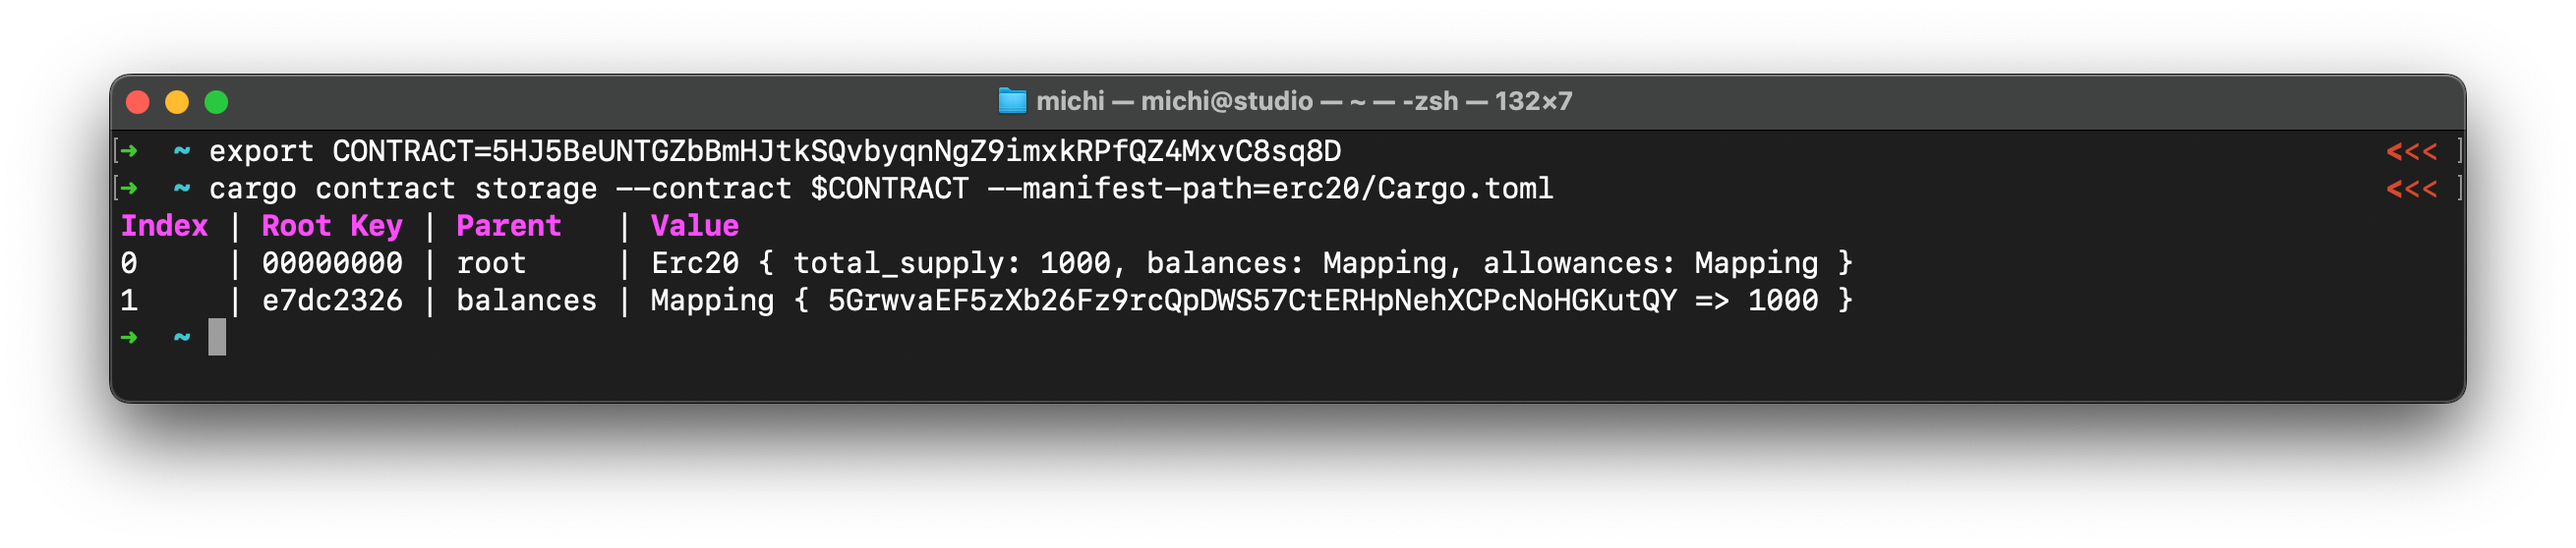
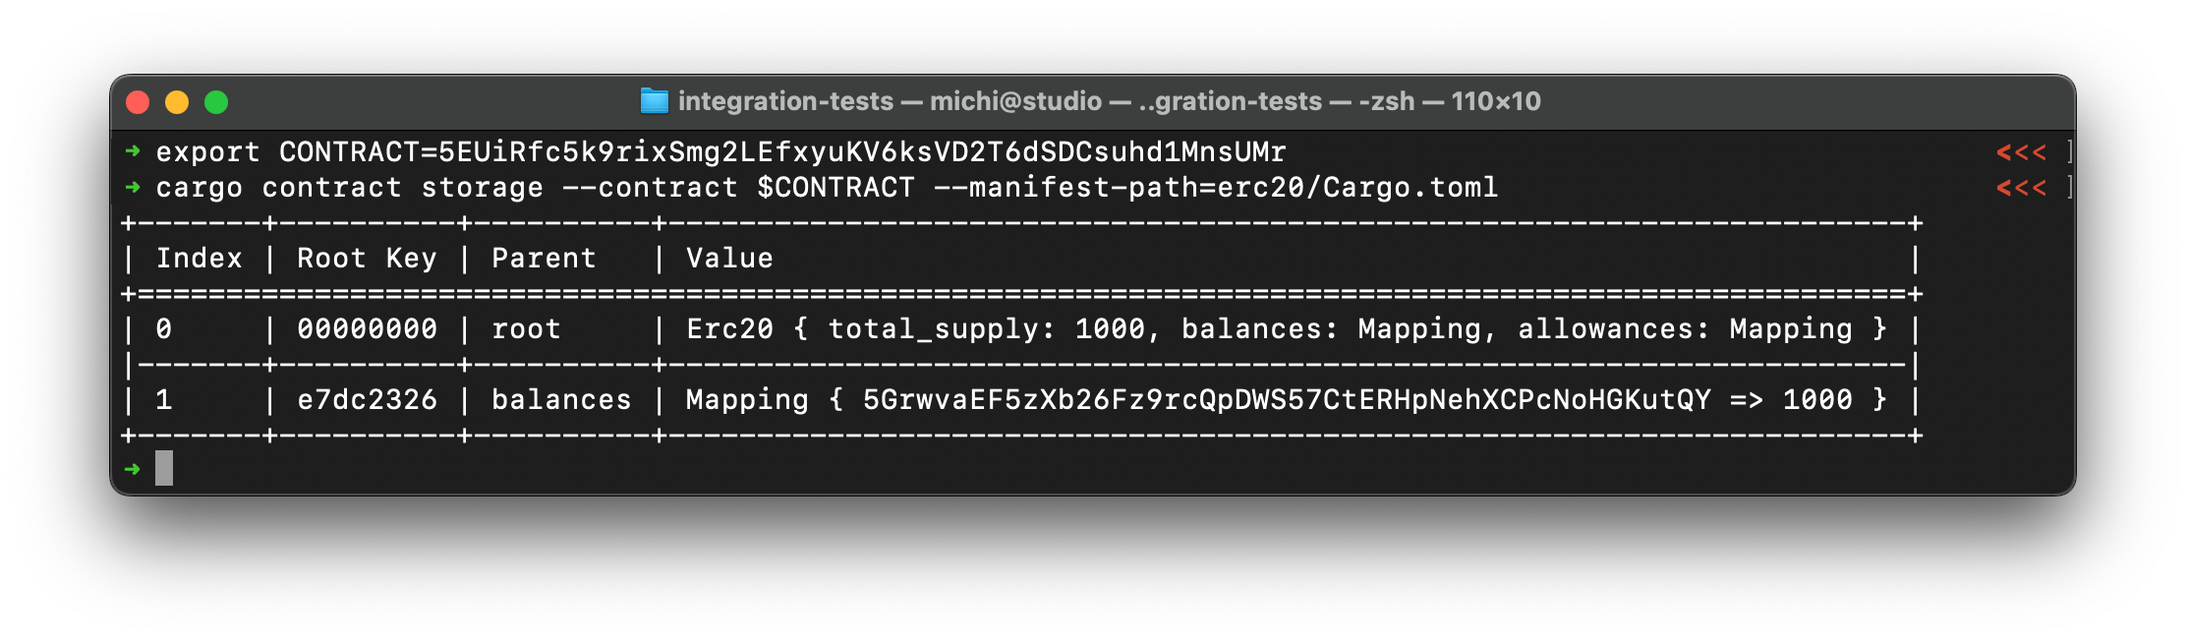
Update `cargo contract storage` tabular layout

Changed region(s): [[0.031, 0.0914, 0.9618, 0.853], [0.1241, 0.6093, 0.8687, 0.6398]]

diff --git a/versioned_docs/version-5.x/testing/testing-with-live-state.md b/versioned_docs/version-5.x/testing/testing-with-live-state.md
@@ -61,10 +61,13 @@ cargo contract instantiate --suri //Alice --args true -x
 
 You can check that the contract exists by querying its state via `cargo-contract`:
 
-```json
+```
 $ cargo contract storage --contract 5FgRdaReCLFtwbzYiVd2hoz9P3oERdNy2njnFmUBHu4FYg7s
-Index | Root Key | Parent | Value                                                                                                            
-0     | 00000000 | root   | Flipper { value: true } 
++-------+----------+--------+-------------------------+
+| Index | Root Key | Parent | Value                   |
++=====================================================+
+| 0     | 00000000 | root   | Flipper { value: true } |
++-------+----------+--------+-------------------------+
 ```
 
 ### Setup Chopsticks
@@ -126,9 +129,12 @@ If you now execute the `cargo-contract` storage command against this node, you'l
 that the `flipper` contract exists there as well:
 
 ```
-cargo contract storage --contract 5FgRdaReCLFtwbzYiVd2hoz9P3oERdNy2njnFmUBHu4FYg7s --url=ws://localhost:9944
-Index | Root Key | Parent | Value                                                                                                            
-0     | 00000000 | root   | Flipper { value: true }
+$ cargo contract storage --contract 5FgRdaReCLFtwbzYiVd2hoz9P3oERdNy2njnFmUBHu4FYg7s --url=ws://localhost:9944
++-------+----------+--------+-------------------------+
+| Index | Root Key | Parent | Value                   |
++=====================================================+
+| 0     | 00000000 | root   | Flipper { value: true } |
++-------+----------+--------+-------------------------+
 ```
 
 Chopsticks has branched off from the live chain.
@@ -210,17 +216,23 @@ If you query the contract storage on our Chopsticks fork, you'll see that the E2
 flipped the boolean:
 
 ```
-cargo contract storage --contract 5FgRdaReCLFtwbzYiVd2hoz9P3oERdNy2njnFmUBHu4FYg7s --url=ws://localhost:8000
-Index | Root Key | Parent | Value                                                                                                            
-0     | 00000000 | root   | Flipper { value: false }
+$ cargo contract storage --contract 5FgRdaReCLFtwbzYiVd2hoz9P3oERdNy2njnFmUBHu4FYg7s --url=ws://localhost:8000
++-------+----------+--------+-------------------------+
+| Index | Root Key | Parent | Value                   |
++=====================================================+
+| 0     | 00000000 | root   | Flipper { value: false } |
++-------+----------+--------+-------------------------+
 ```
 
 On the "original" `substrate-contracts-node` chain the boolean will be untouched.
 
 ```
-cargo contract storage --contract 5FgRdaReCLFtwbzYiVd2hoz9P3oERdNy2njnFmUBHu4FYg7s --url=ws://localhost:9944
-Index | Root Key | Parent | Value                                                                                                            
-0     | 00000000 | root   | Flipper { value: true }
+$ cargo contract storage --contract 5FgRdaReCLFtwbzYiVd2hoz9P3oERdNy2njnFmUBHu4FYg7s --url=ws://localhost:9944
++-------+----------+--------+-------------------------+
+| Index | Root Key | Parent | Value                   |
++=====================================================+
+| 0     | 00000000 | root   | Flipper { value: true } |
++-------+----------+--------+-------------------------+
 ```
 
 Success! We just ran an ink! end-to-end test against the snapshot of a chain!
